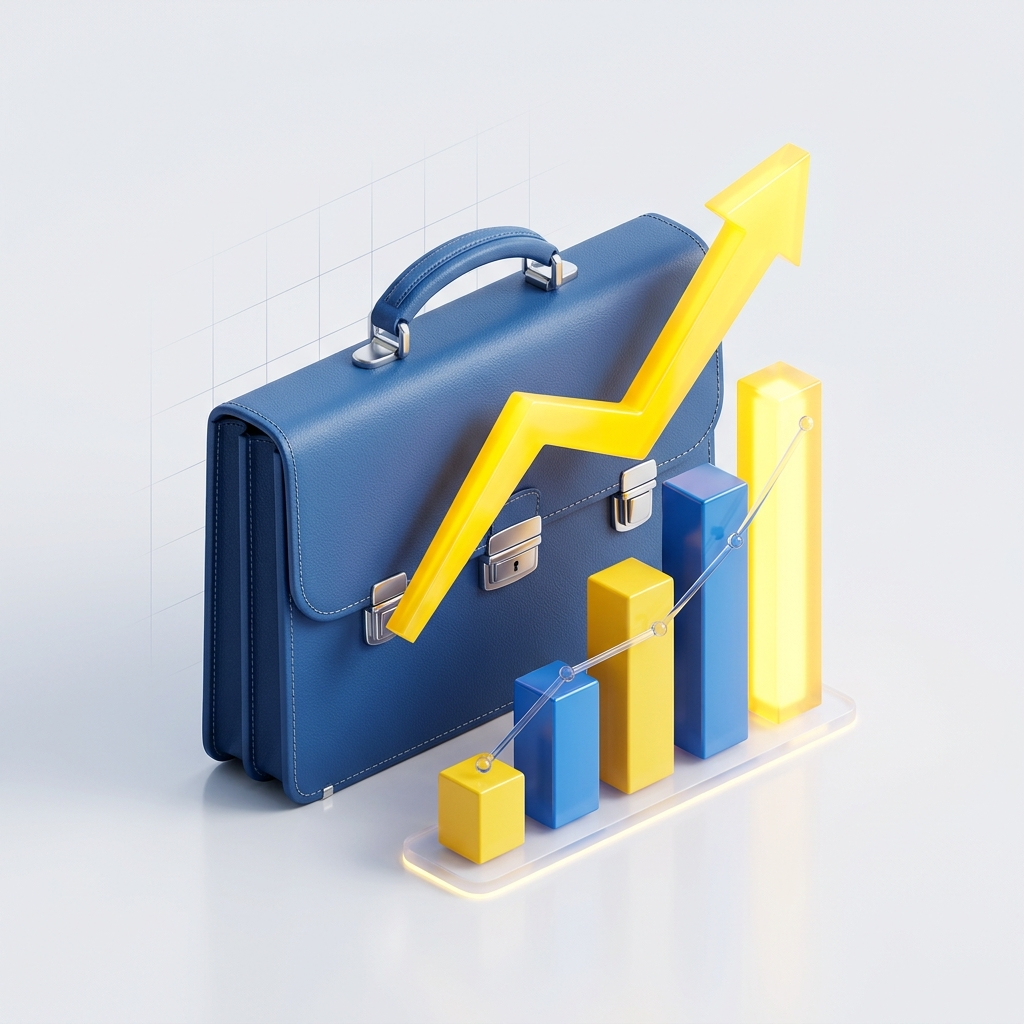
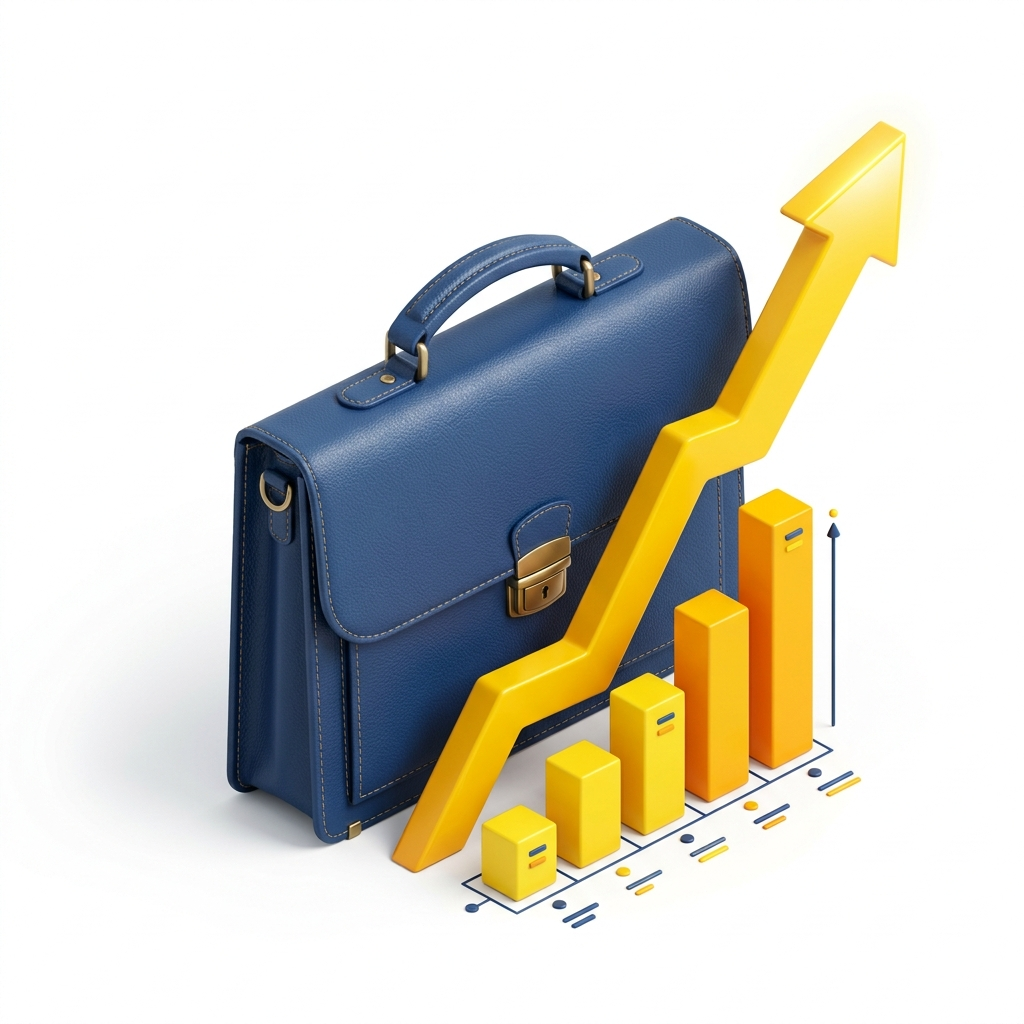
style: refine contact cards with non-overlapping layout and black description font

diff --git a/src/components/Contact/Contact.jsx b/src/components/Contact/Contact.jsx
@@ -170,7 +170,7 @@ const Contact = () => {
               whileInView={{ opacity: 1, y: 0 }}
               transition={{ delay: idx * 0.15 }}
               viewport={{ once: true }}
-              className="group relative bg-white rounded-[3rem] p-8 border border-slate-100 shadow-xl shadow-blue-900/5 hover:shadow-2xl hover:shadow-blue-900/10 hover:-translate-y-2 transition-all duration-500 overflow-hidden"
+              className="group relative bg-white rounded-[3rem] p-8 border border-slate-100 shadow-xl shadow-blue-900/5 hover:shadow-2xl hover:shadow-blue-900/10 hover:-translate-y-2 transition-all duration-500 overflow-hidden flex flex-col min-h-[520px]"
             >
               {/* Card Header */}
               <div className="flex items-center gap-5 mb-6">
@@ -183,23 +183,27 @@ const Contact = () => {
               </div>
 
               {/* Card Description */}
-              <p className="text-sm font-bold text-[#64779F] mb-10 leading-relaxed max-w-[200px]">
+              <p className="text-sm font-bold text-black mb-8 leading-relaxed">
                 {contact.desc}
               </p>
 
-              {/* 3D Illustration Overlay */}
-              <div className="absolute bottom-4 right-4 w-40 h-40 opacity-90 group-hover:scale-110 group-hover:rotate-3 transition-transform duration-700 pointer-events-none">
-                <img src={contact.illustration} alt={contact.title} className="w-full h-full object-contain" />
+              {/* 3D Illustration - Centered and non-overlapping */}
+              <div className="flex-1 flex items-center justify-center mb-8 relative z-10">
+                <img 
+                  src={contact.illustration} 
+                  alt={contact.title} 
+                  className="w-48 h-48 object-contain group-hover:scale-110 group-hover:rotate-3 transition-transform duration-700" 
+                />
               </div>
 
               {/* Contact Info */}
-              <div className="relative z-10">
+              <div className="relative z-20 mt-auto">
                 <a 
                   href={`tel:${contact.phone.replace(/\s/g, '')}`}
-                  className="inline-flex items-center gap-3 px-6 py-3 bg-[#224292] rounded-full text-white text-sm font-black shadow-lg shadow-blue-900/20 hover:bg-[#ffc107] transition-all"
+                  className="inline-flex items-center gap-3 px-8 py-4 bg-[#224292] rounded-2xl text-white hover:bg-[#ffc107] hover:text-[#224292] transition-all duration-300 shadow-xl shadow-blue-900/10 group/btn"
                 >
-                  <Phone size={16} />
-                  {contact.phone}
+                  <Phone size={18} className="text-[#ffc107] group-hover/btn:text-[#224292] transition-colors" />
+                  <span className="text-base font-black tracking-tight text-white group-hover/btn:text-[#224292] transition-colors">{contact.phone}</span>
                 </a>
               </div>
             </motion.div>
@@ -207,29 +211,6 @@ const Contact = () => {
         </div>
       </div>
 
-      {/* Feature Footer Bar */}
-      <div className="bg-[#224292] py-10">
-        <div className="max-w-7xl mx-auto px-6 lg:px-10">
-          <div className="grid grid-cols-2 lg:grid-cols-4 gap-8">
-            {[
-              { icon: Clock, title: "Quick Response", sub: "We reply within 24 hours" },
-              { icon: ShieldCheck, title: "Verified & Trusted", sub: "Official support from KIOT" },
-              { icon: Users, title: "Multiple Channels", sub: "Call, Email & In-Person" },
-              { icon: PhoneIncoming, title: "Always Here to Help", sub: "Your success is our priority" }
-            ].map((feature, idx) => (
-              <div key={idx} className="flex items-center gap-5 text-white">
-                <div className="w-12 h-12 rounded-full bg-white/10 flex items-center justify-center backdrop-blur-sm border border-white/20">
-                  <feature.icon size={22} className="text-[#ffc107]" />
-                </div>
-                <div>
-                  <h4 className="text-sm font-black tracking-tight">{feature.title}</h4>
-                  <p className="text-[11px] font-bold text-blue-200 uppercase tracking-wider">{feature.sub}</p>
-                </div>
-              </div>
-            ))}
-          </div>
-        </div>
-      </div>
 
       {/* Detailed Listings (Accordions) */}
       <div className="max-w-4xl mx-auto px-6 py-20">
